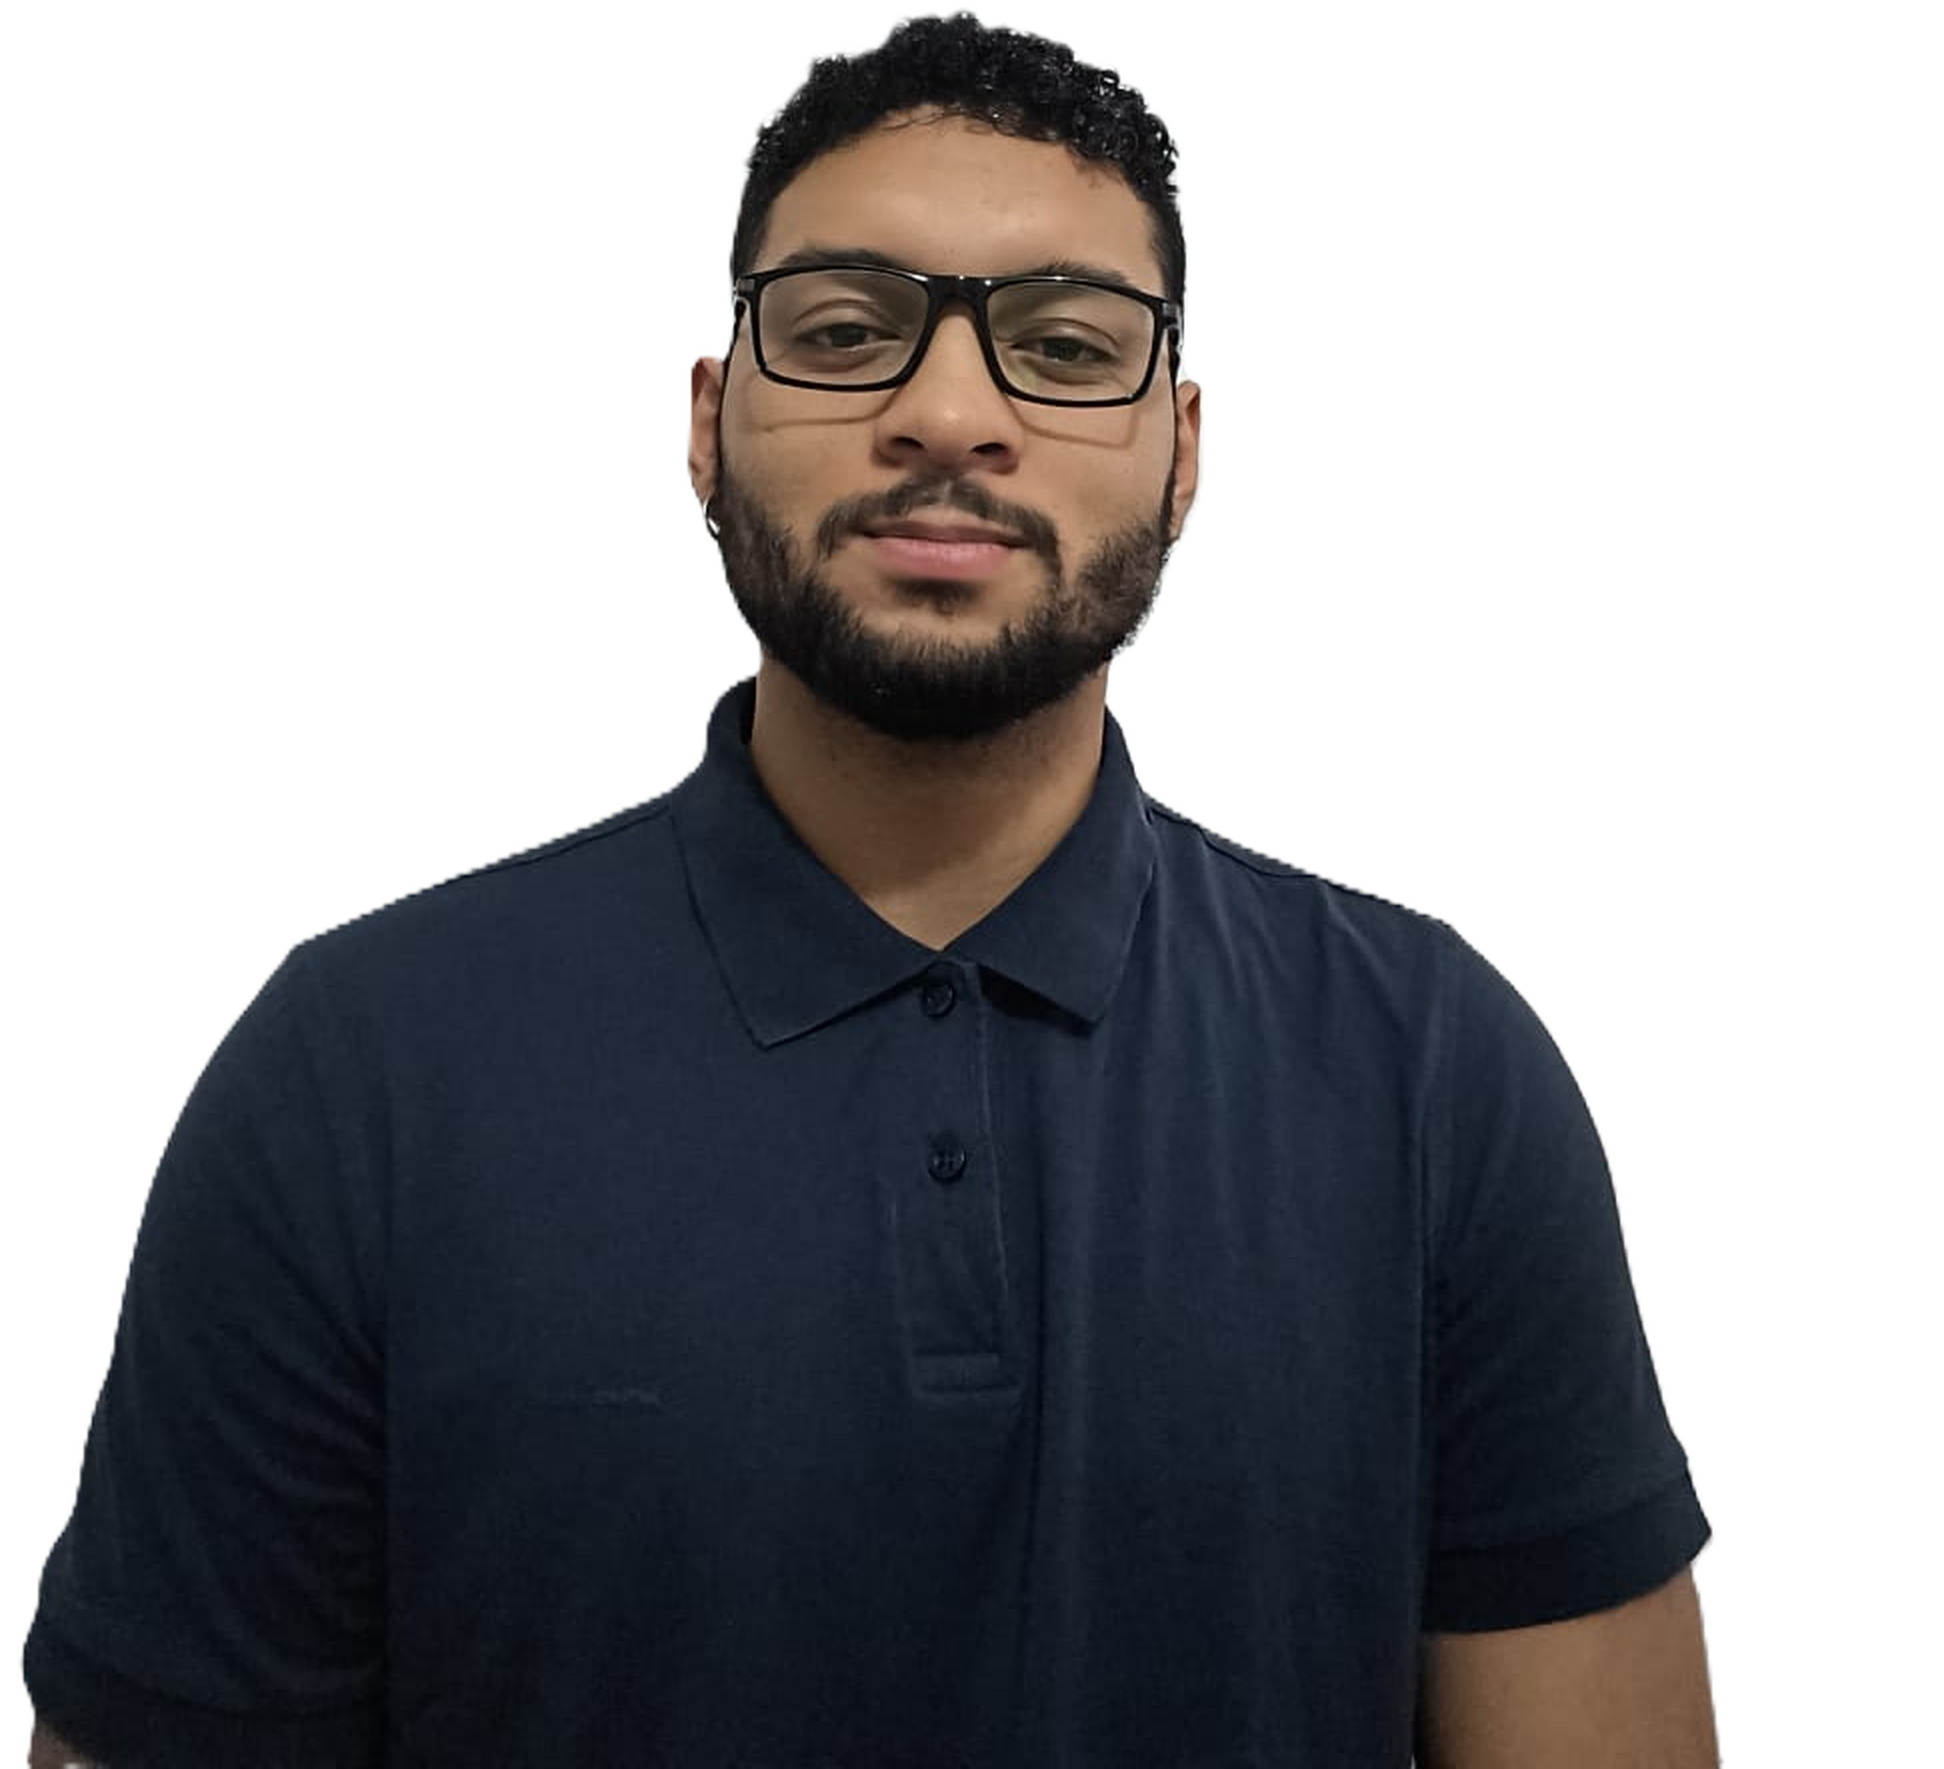
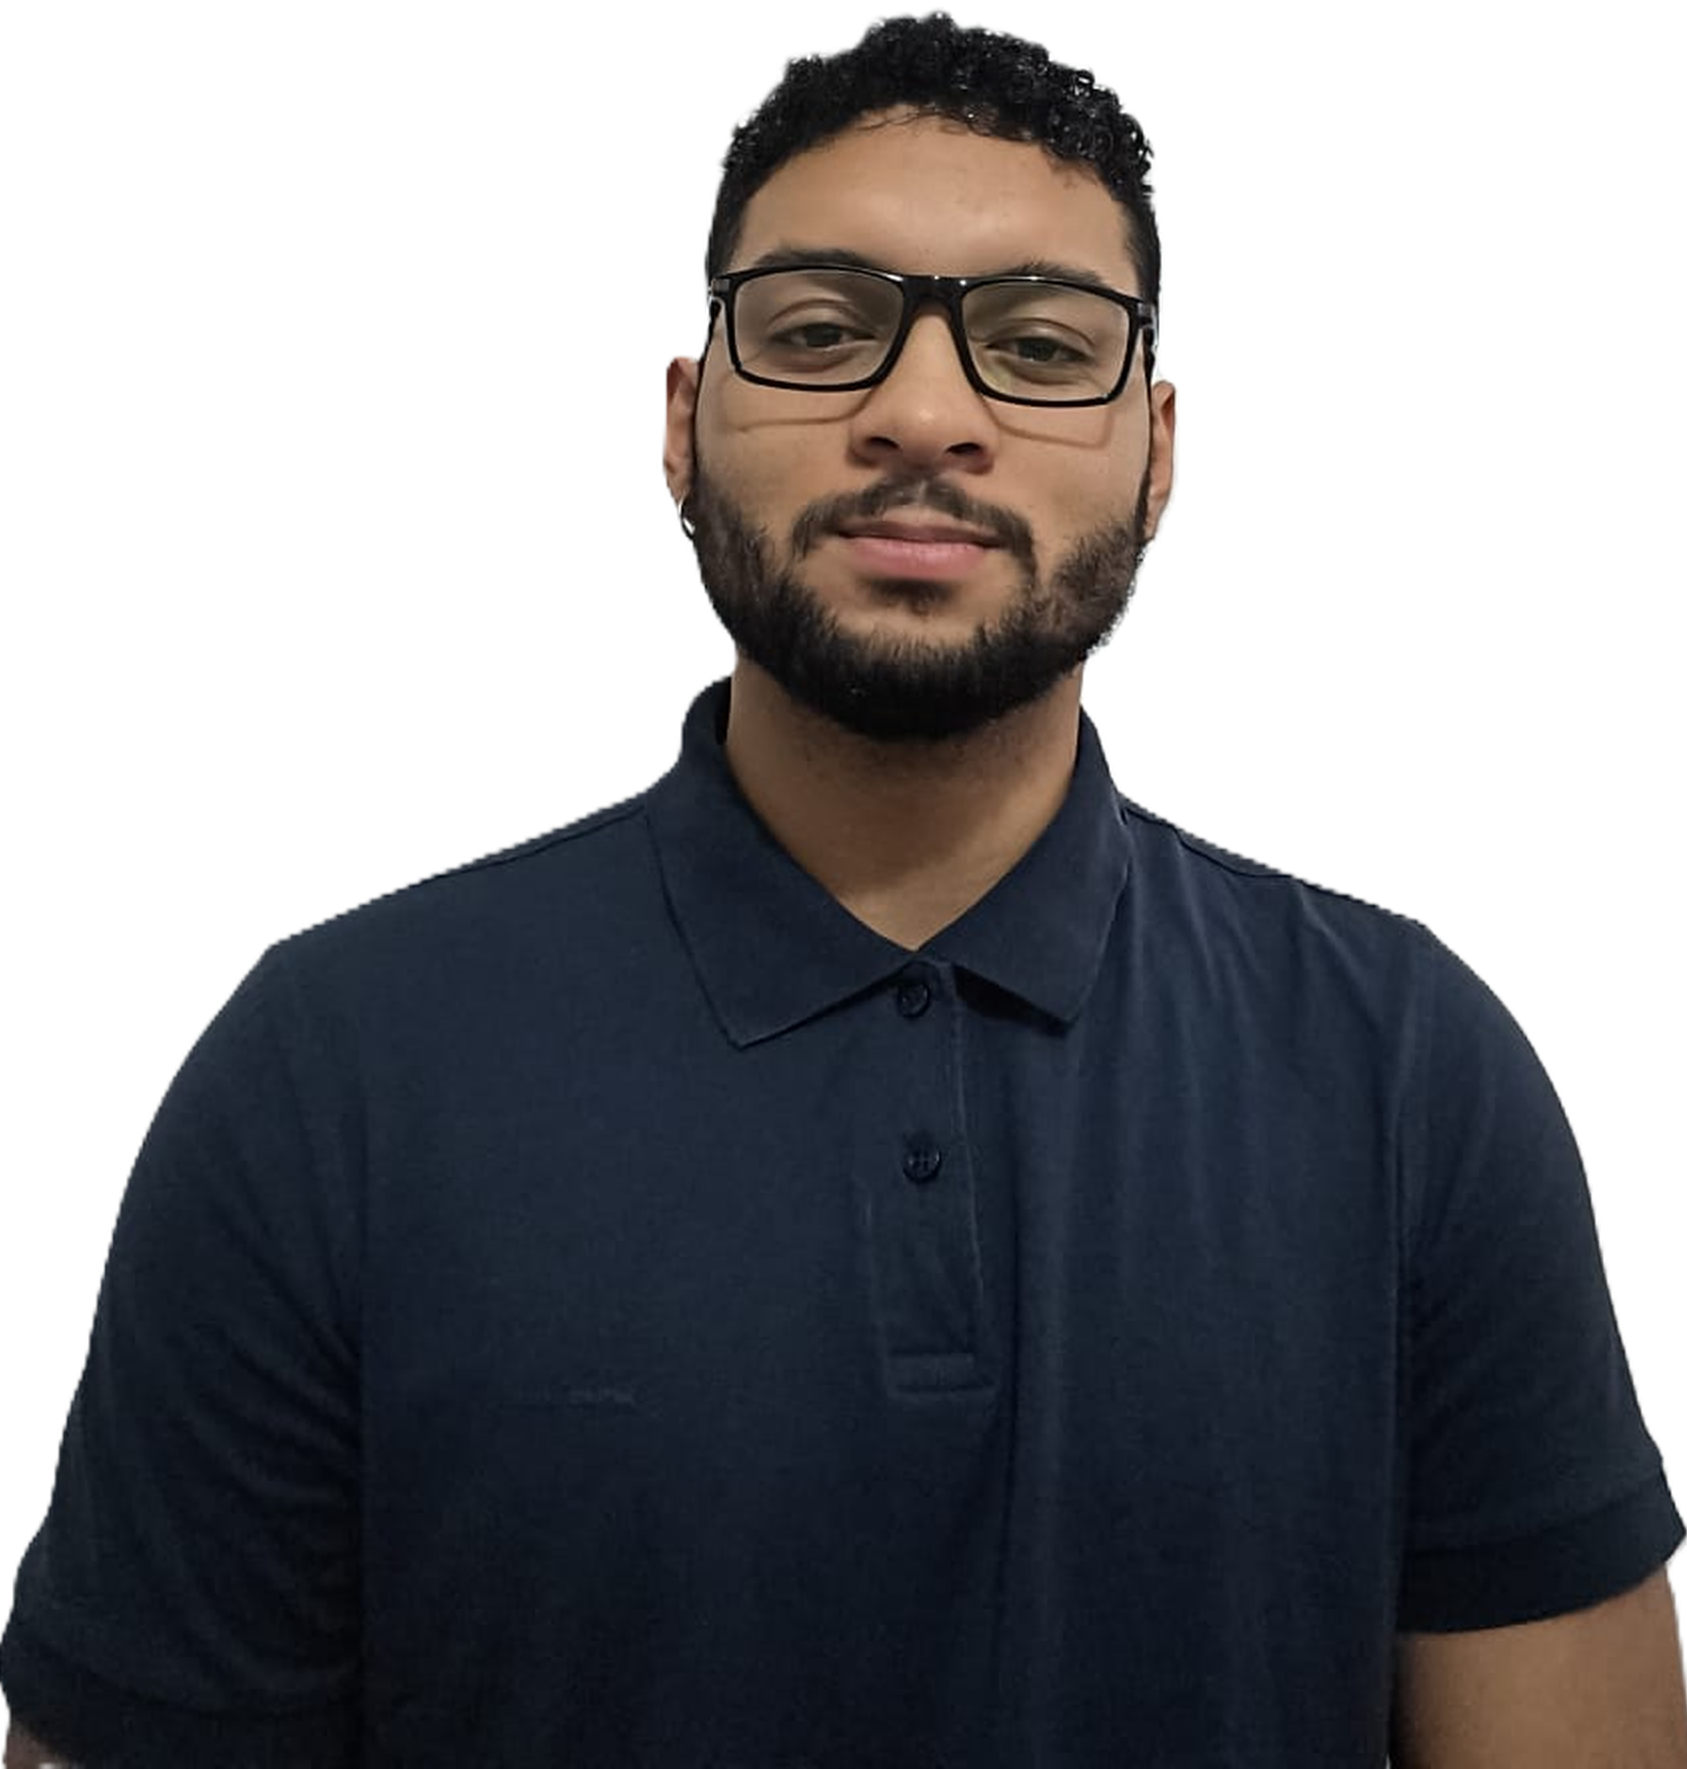
Portfolio

diff --git a/src/components/organisms/Hero/index.tsx b/src/components/organisms/Hero/index.tsx
@@ -1,23 +1,26 @@
-import { HeroTitle, SubText } from "@/components/atoms/TextAndTitles";
+import { SubText } from "@/components/atoms/TextAndTitles";
 import Button from "@/components/atoms/Button";
 import React from "react";
 import Image from "next/image";
 
 const Index = () => {
   return (
-    <div className="flex flex-row items-center justify-evenly w-[60%] rounded-2xl p-6 mx-auto min-h-[550px] max-h-[650px] shadow-md bg-white relative">
+    <div className="flex flex-row items-center justify-evenly w-full rounded-2xl p-6 mx-auto min-h-[550px] max-h-[650px] shadow-md bg-white relative">
       <div className="flex flex-col items-start justify-evenly gap-8 flex-1">
-        <HeroTitle text="I'm Samuel Montoya Front-End Developer" />
+        <h1 className="text-center lg:text-left text-[40px] lg:text-[56px] font-light max-w-72 lg:max-w-96 text-black">
+          I&#39;m Samuel Montoya <span className="text-primary">Front-End</span>{" "}
+          Developer
+        </h1>
         <SubText text="I am a passionate front-end developer with a focus on creating beautiful and functional user interfaces. I love to learn new technologies and improve my skills every day." />
         <Button text="HIRE ME" />
       </div>
-      <div className="flex-1 flex justify-evenly">
+      <div className="flex flex-1 justify-end">
         <Image
           src="/hero.png"
           alt="hero"
-          width={400}
-          height={400}
-          className="w-full max-w-lg h-[500] absolute bottom-0 right-10"
+          width={300}
+          height={300}
+          className="w-full max-w-lg h-[500px] absolute bottom-0 right-0"
         />
       </div>
     </div>

diff --git a/src/components/atoms/TextAndTitles/index.tsx b/src/components/atoms/TextAndTitles/index.tsx
@@ -2,7 +2,7 @@ import React from "react";
 
 const HeroTitle = ({ text }: { text: string }) => {
   return (
-    <h1 className="text-center lg:text-left text-5xl lg:text-6xl font-light text-secondary max-w-72 lg:max-w-96">
+    <h1 className="text-center lg:text-left text-4xlxl lg:text-5xl font-light text-secondary max-w-72 lg:max-w-96">
       {text}
     </h1>
   );
@@ -18,7 +18,7 @@ const MediumTitle = ({ text }: { text: string }) => {
 
 const SubTitle = ({ text }: { text: string }) => {
   return (
-    <h3 className="text-center lg:text-left text-xl lg:text-[24px] font-light text-secondary ">
+    <h3 className="text-center text-xl lg:text-[24px] font-light text-secondary ">
       {text}
     </h3>
   );
@@ -26,7 +26,7 @@ const SubTitle = ({ text }: { text: string }) => {
 
 const TextTitle = ({ text }: { text: string }) => {
   return (
-    <h3 className="text-center lg:text-left text-xl lg:text-[16px] font-bold text-secondary ">
+    <h3 className="text-center lg:text-left text-xl lg:text-[16px] font-bold ">
       {text}
     </h3>
   );
@@ -40,4 +40,18 @@ const SubText = ({ text }: { text: string }) => {
   );
 };
 
-export { HeroTitle, MediumTitle, SubTitle, TextTitle, SubText };
+const TextLink = ({ text, href }: { text: string; href: string }) => {
+  return (
+    <div>
+      <a
+        href={href}
+        className="text-primary font-bold text-left hover:cursor-pointer hover:text-secondary transition-colors"
+        target="_blank"
+      >
+        {text}
+      </a>
+    </div>
+  );
+};
+
+export { HeroTitle, MediumTitle, SubTitle, TextTitle, SubText, TextLink };

diff --git a/src/components/organisms/Portfolio/index.tsx b/src/components/organisms/Portfolio/index.tsx
@@ -1,0 +1,43 @@
+import React from "react";
+import PortfolioItem from "@/components/molecules/PortfolioItem";
+
+const Index = () => {
+  const portfolioItems = [
+    {
+      src: "/portfolio1.png",
+      title: "Planilla Voleibo",
+      text: "Proyecto de una planilla de voleibol, practica de desarrollo front-end con React. Proyecto integrador 1 y 2",
+      href: "https://github.com/SamuelMon/ProyectoIntegrador",
+    },
+    {
+      src: "/portfolio2.png",
+      title: "Proyecto Tic Tac Toe",
+      text: "Proyecto de un juego de tres en raya, practica de desarrollo front-end con React",
+      href: "https://github.com/SamuelMon/curso-react/tree/main/projects/01-tic-tac-toe",
+    },
+    {
+      src: "/portfolio3.png",
+      title: "Proyecto practica componente Twitter",
+      text: "Proyecto de un componente de Twitter, practica de desarrollo front-end con React",
+      href: "https://github.com/SamuelMon/curso-react/tree/main/projects/00-hola-mundo",
+    },
+  ];
+
+  return (
+    <div className="w-full overflow-x-auto">
+      <div className="flex flex-row gap-16 min-w-max px-4 mb-8">
+        {portfolioItems.map((item, index) => (
+          <PortfolioItem
+            key={index}
+            src={item.src}
+            title={item.title}
+            text={item.text}
+            href={item.href}
+          />
+        ))}
+      </div>
+    </div>
+  );
+};
+
+export default Index;

diff --git a/src/components/molecules/PortfolioItem/index.tsx b/src/components/molecules/PortfolioItem/index.tsx
@@ -1,0 +1,31 @@
+import { SubText, TextLink, TextTitle } from "@/components/atoms/TextAndTitles";
+import Image from "next/image";
+import React from "react";
+
+interface PortfolioItemProps {
+  src: string; // URL de la imagen, requerido
+  title: string; // Título del proyecto, requerido
+  text: string; // Descripción, requerido
+  href: string; // URL del proyecto, requerido
+}
+
+const Index = ({ src, title, text, href }: PortfolioItemProps) => {
+  return (
+    <div className="flex flex-col items-center justify-evenly p-4 gap-2 bg-white w-80 h-[500] rounded-2xl shadow-lg">
+      <Image
+        src={src}
+        alt="Portfolio Image"
+        width="300"
+        height="300"
+        className="shadow-lg mt-6"
+      />
+      <div className="flex flex-col justify-end h-[40%]">
+        <TextTitle text={title} />
+        <SubText text={text} />
+        <TextLink text="Saber Mas >" href={href} />
+      </div>
+    </div>
+  );
+};
+
+export default Index;

diff --git a/src/pages/index.tsx b/src/pages/index.tsx
@@ -1,9 +1,19 @@
 import Education from "@/components/organisms/Education";
+import Hero from "@/components/organisms/Hero";
+import Knowledge from "@/components/organisms/Knowledge";
+import Portfolio from "@/components/organisms/Portfolio";
 
 export default function Home() {
   return (
     <div className="flex flex-col items-center justify-center min-h-screen py-2 bg-gray-200">
-      <Education />
+      <div></div>
+      <div className="flex flex-col items-center justify-center gap-36 w-[60%] max-w-4xl mx-auto bg-gray-200">
+        <Hero />
+        <Knowledge />
+        <Education />
+        <Portfolio />
+      </div>
+      <div></div>
     </div>
   );
 }

diff --git a/src/components/organisms/Education/index.tsx b/src/components/organisms/Education/index.tsx
@@ -27,7 +27,7 @@ const Index = () => {
     },
   ];
   return (
-    <div className="flex flex-col items-center w-[60%] bg-white rounded-2xl shadow-md p-6">
+    <div className="flex flex-col items-center w-full bg-white rounded-2xl shadow-md p-6">
       <MediumTitle text="Educación" />
       <div className="flex flex-col justify-center items-center gap-6 mt-6">
         {education.map((item, index) => (

diff --git a/src/styles/globals.css b/src/styles/globals.css
@@ -3,11 +3,13 @@
 :root {
   --graybg: #d1d5db;
   --primary: #e67e22;
+  --secondary: #f27509;
   --available: #7eb942;
 }
 
 @theme inline {
   --color-graybg: var(--graybg);
   --color-primary: var(--primary);
+  --color-secondary: var(--secondary);
   --color-available: var(--available);
 }
